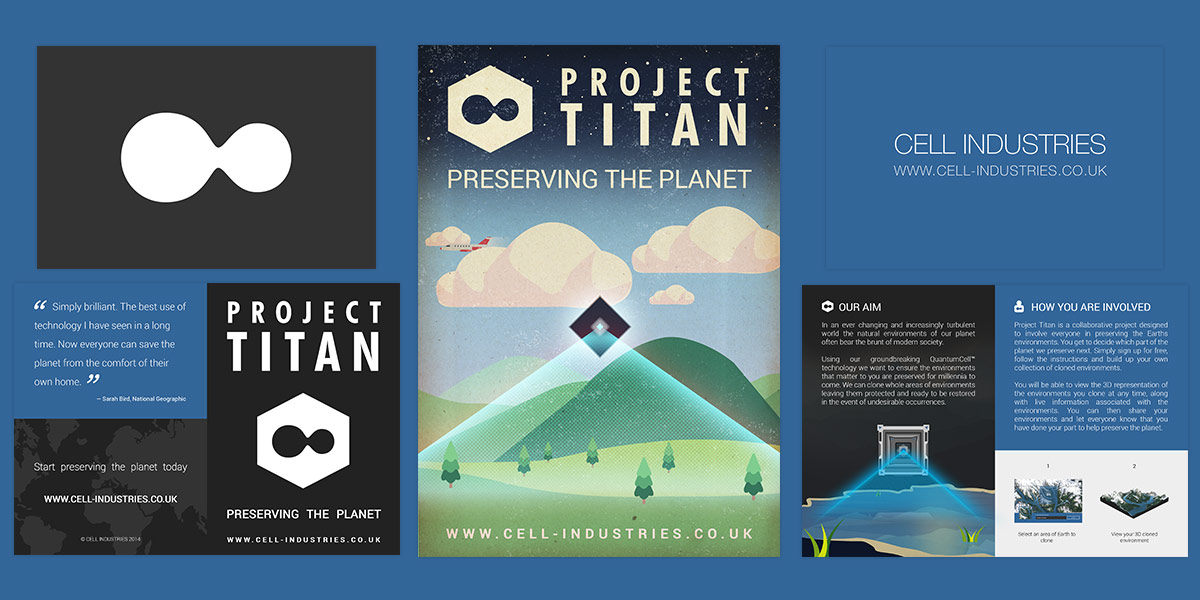
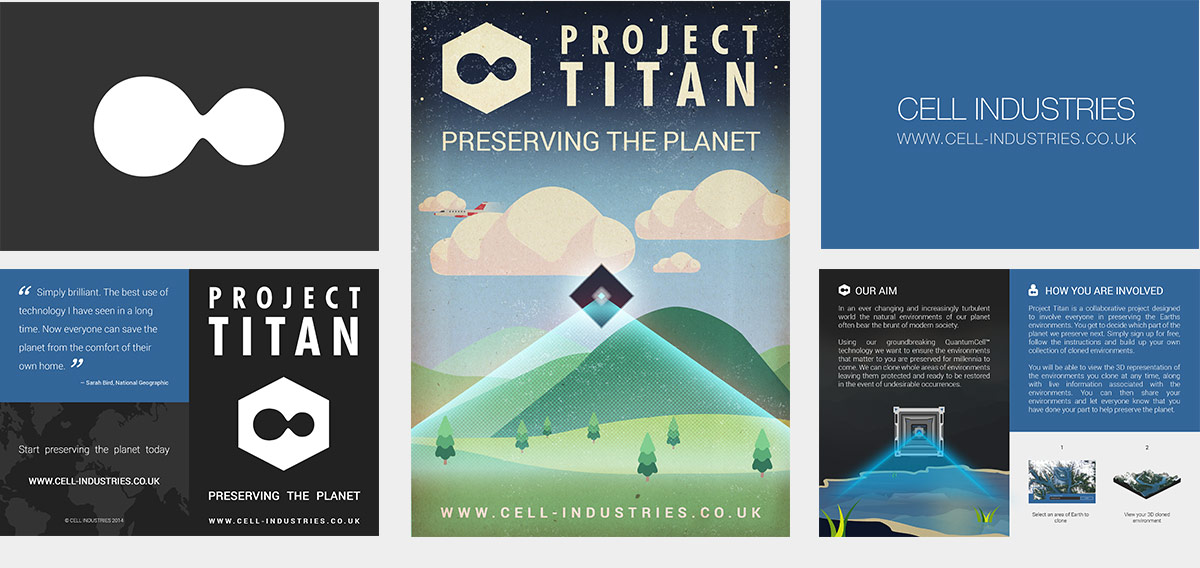
Updated press-pack-promo.jpg, changed markup to suit colours

diff --git a/views/press.php b/views/press.php
@@ -9,7 +9,7 @@
 
     <section>
         <div class="align-centre">
-            <div class="section-padding lgrey">
+            <div class="section-padding mblue">
                 <div id="press-email">
                     <p>For all enquiries please contact:</p>
                     <p><a href="mailto:press@cell-industries.co.uk">press@cell-industries.co.uk</a></p>
@@ -19,18 +19,20 @@
     </section>
 
     <section>
-        <div id="press-pack" class="section-padding align-centre mblue">
+        <div id="press-pack" class="section-padding align-centre lgrey">
             <h1><i class="ico-press-pack"></i>PRESS PACK</h1>
+            <h2>Contains:</h2>
+            <p>Business card, Project Titan poster, Project Titan brochure</p>
             <img src="/img/press-pack-promo.jpg" alt="Press pack"/>
             <div id="press-pack-download">
-                <a href="/download/press-pack.zip" class="btn"><i class="ico-download"></i>DOWNLOAD</a>
+                <a href="/download/press-pack.zip" class="btn"><i class="ico-download"></i>DOWNLOAD <small>(3.4MB)</small></a>
             </div>
         </div>
     </section>
 
     <section>
-        <div class="align-centre lgrey">
-            <div class="half lgrey">
+        <div class="align-centre">
+            <div class="half mblue">
                 <blockquote>
                     <p>Without a doubt the most exciting and pioneering business of its time. Cell Industries excels where no other company can.</p>
                     <footer>Dolly Barr, Ewe Scientist</footer>
